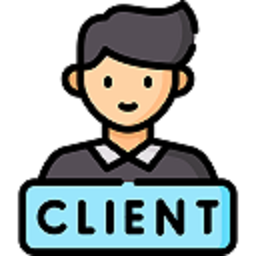
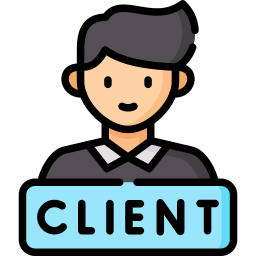
changement de photo au login

diff --git a/src/Login/Login.js b/src/Login/Login.js
@@ -1,6 +1,6 @@
 import "./Login.css";
 import client from "../img/client.png";
-import serveur from "../img/serveur.jpg";
+import serveur from "../img/chef.png";
 import { Link } from "react-router-dom";
 import styled from "styled-components";
 
@@ -33,6 +33,8 @@ function ClientLogin() {
     }
   `;
 
+  
+
   return (
     <>
       <Fond>
@@ -40,10 +42,10 @@ function ClientLogin() {
           <Titre>Burger</Titre>
         </header>
         <div className="gallery">
-          <Link to="/clientLogin" className="image-wrapper">
+          <Link to="/clientLogin" className="image-client">
             <img src={client} alt="client" />
           </Link>
-          <Link to="/restaurateurLogin" className="image-wrapper">
+          <Link to="/restaurateurLogin" className="image-chef">
             <img src={serveur} alt="serveur" />
           </Link>
         </div>

diff --git a/src/Login/Login.css b/src/Login/Login.css
@@ -19,3 +19,4 @@ h1:hover::after {
   align-items: center;
   height: 100vh;
 }
+
